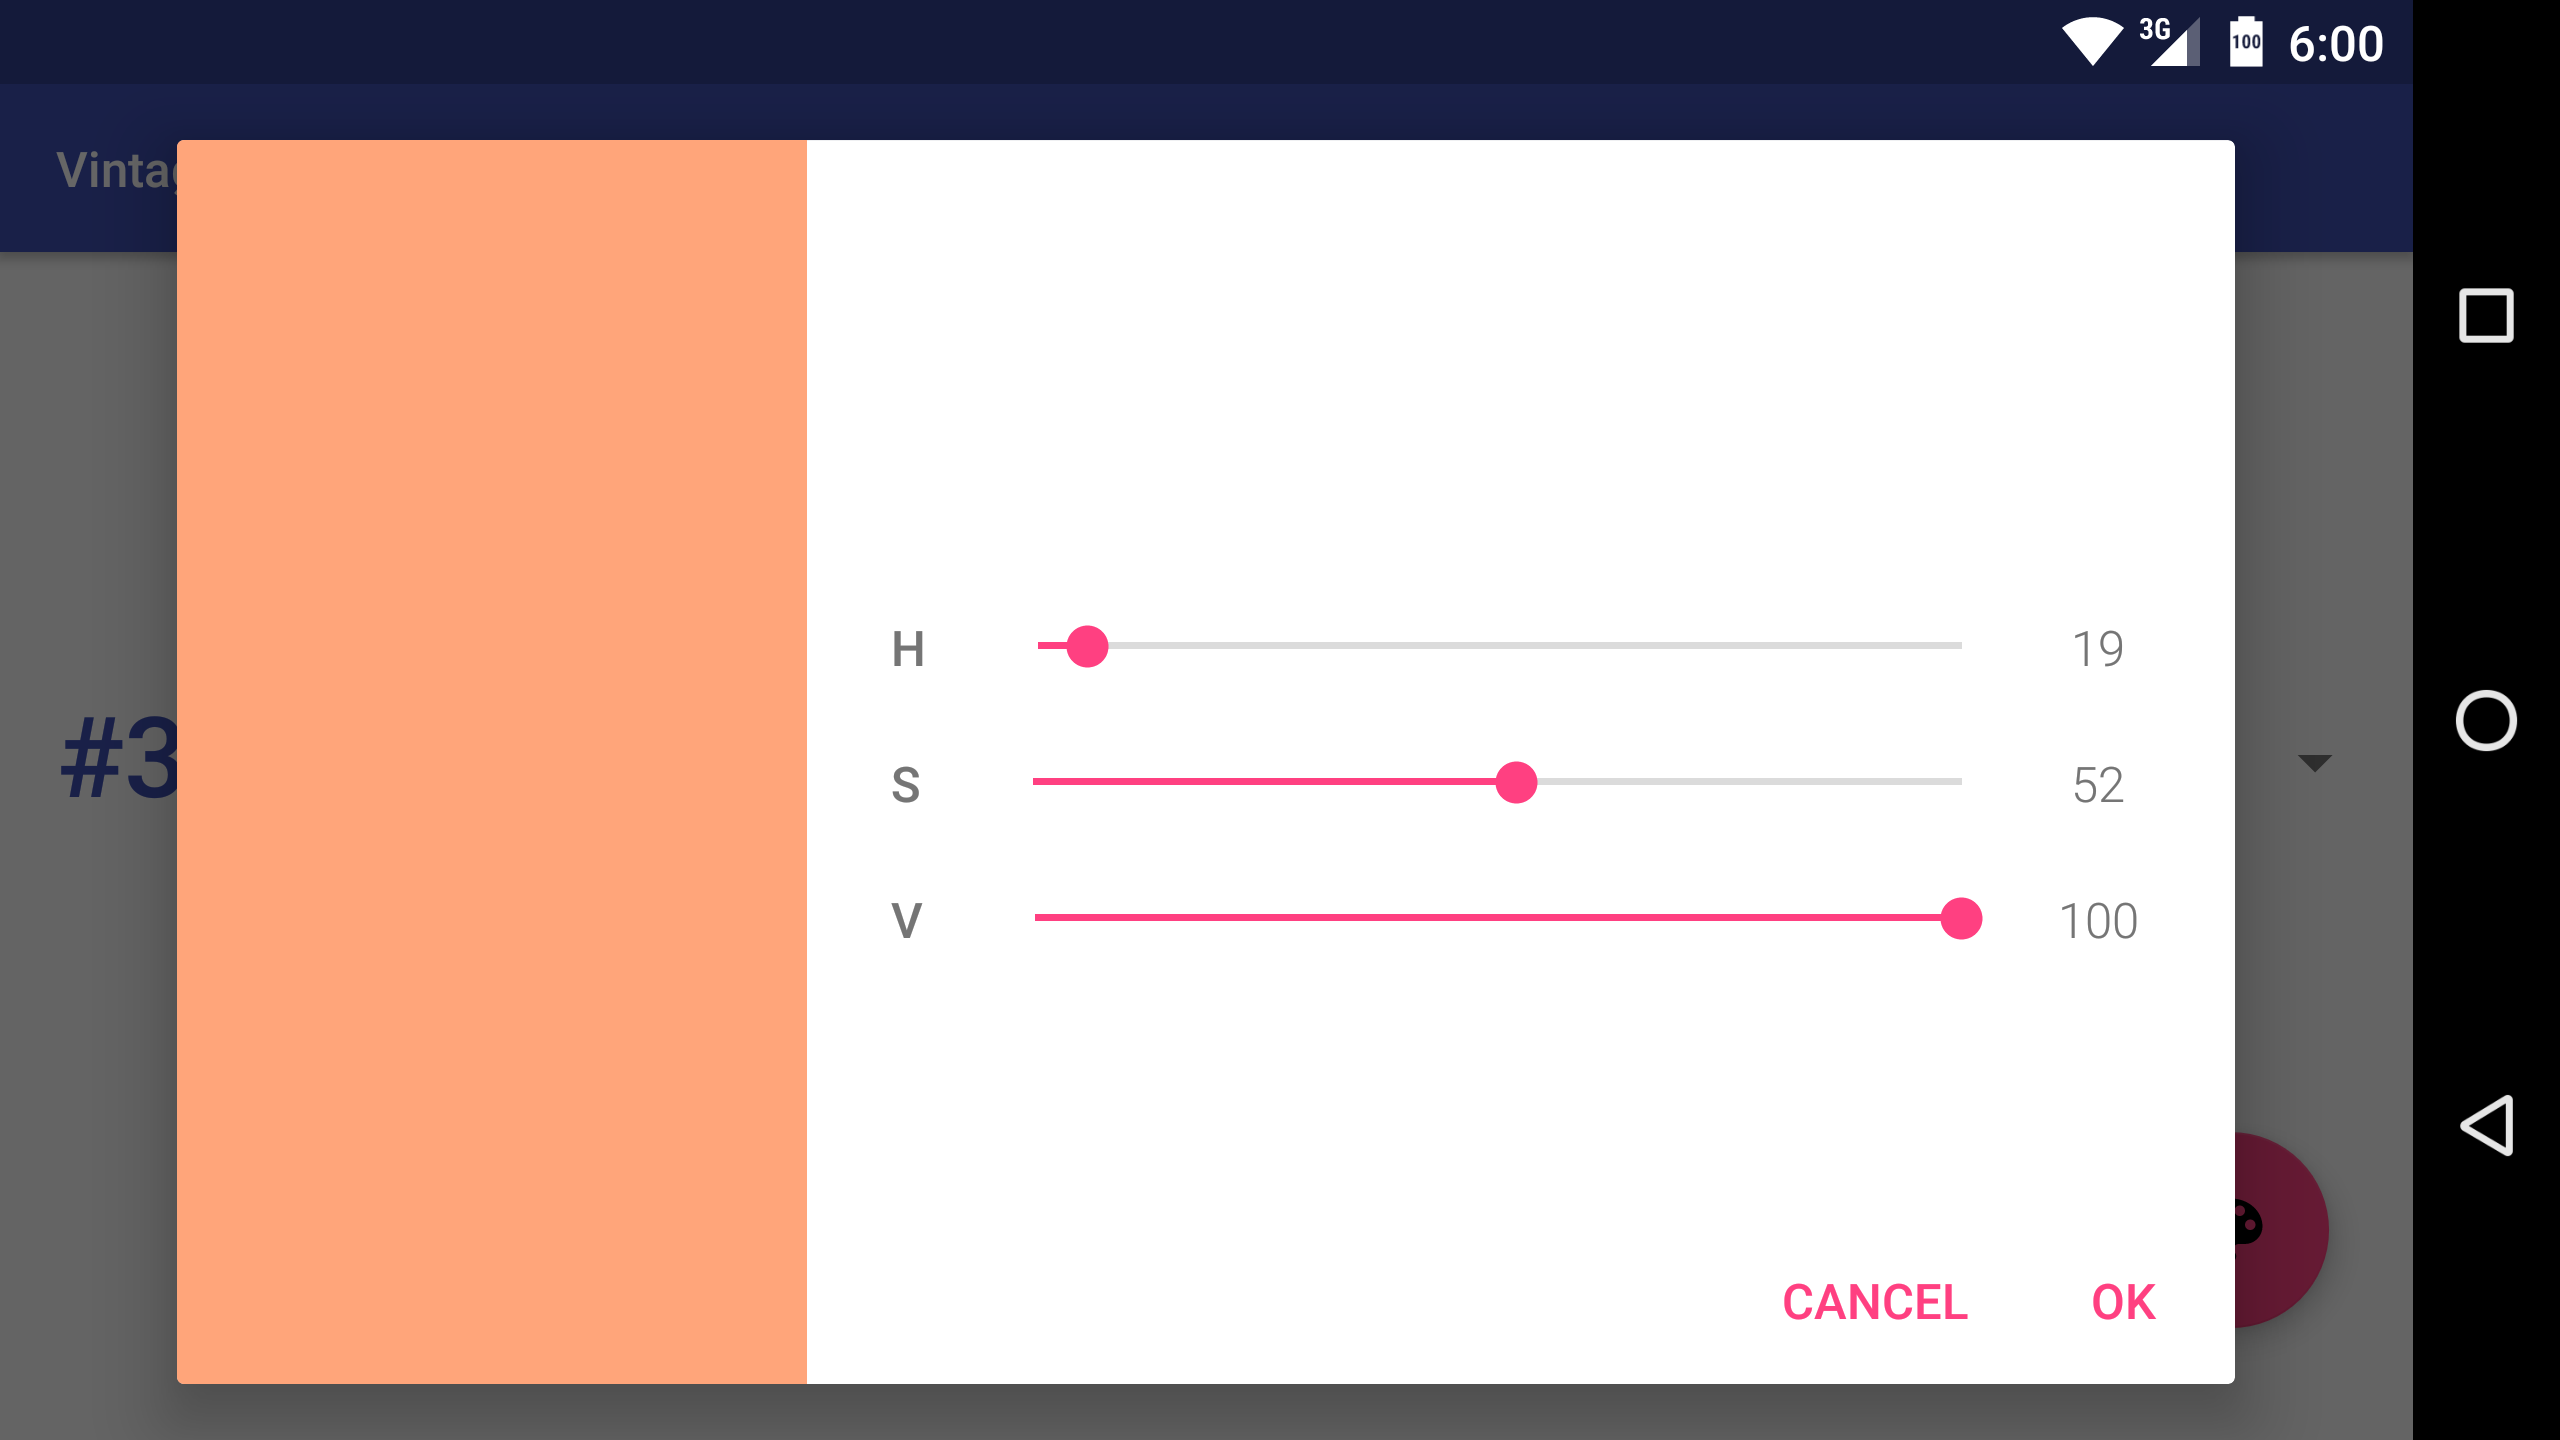
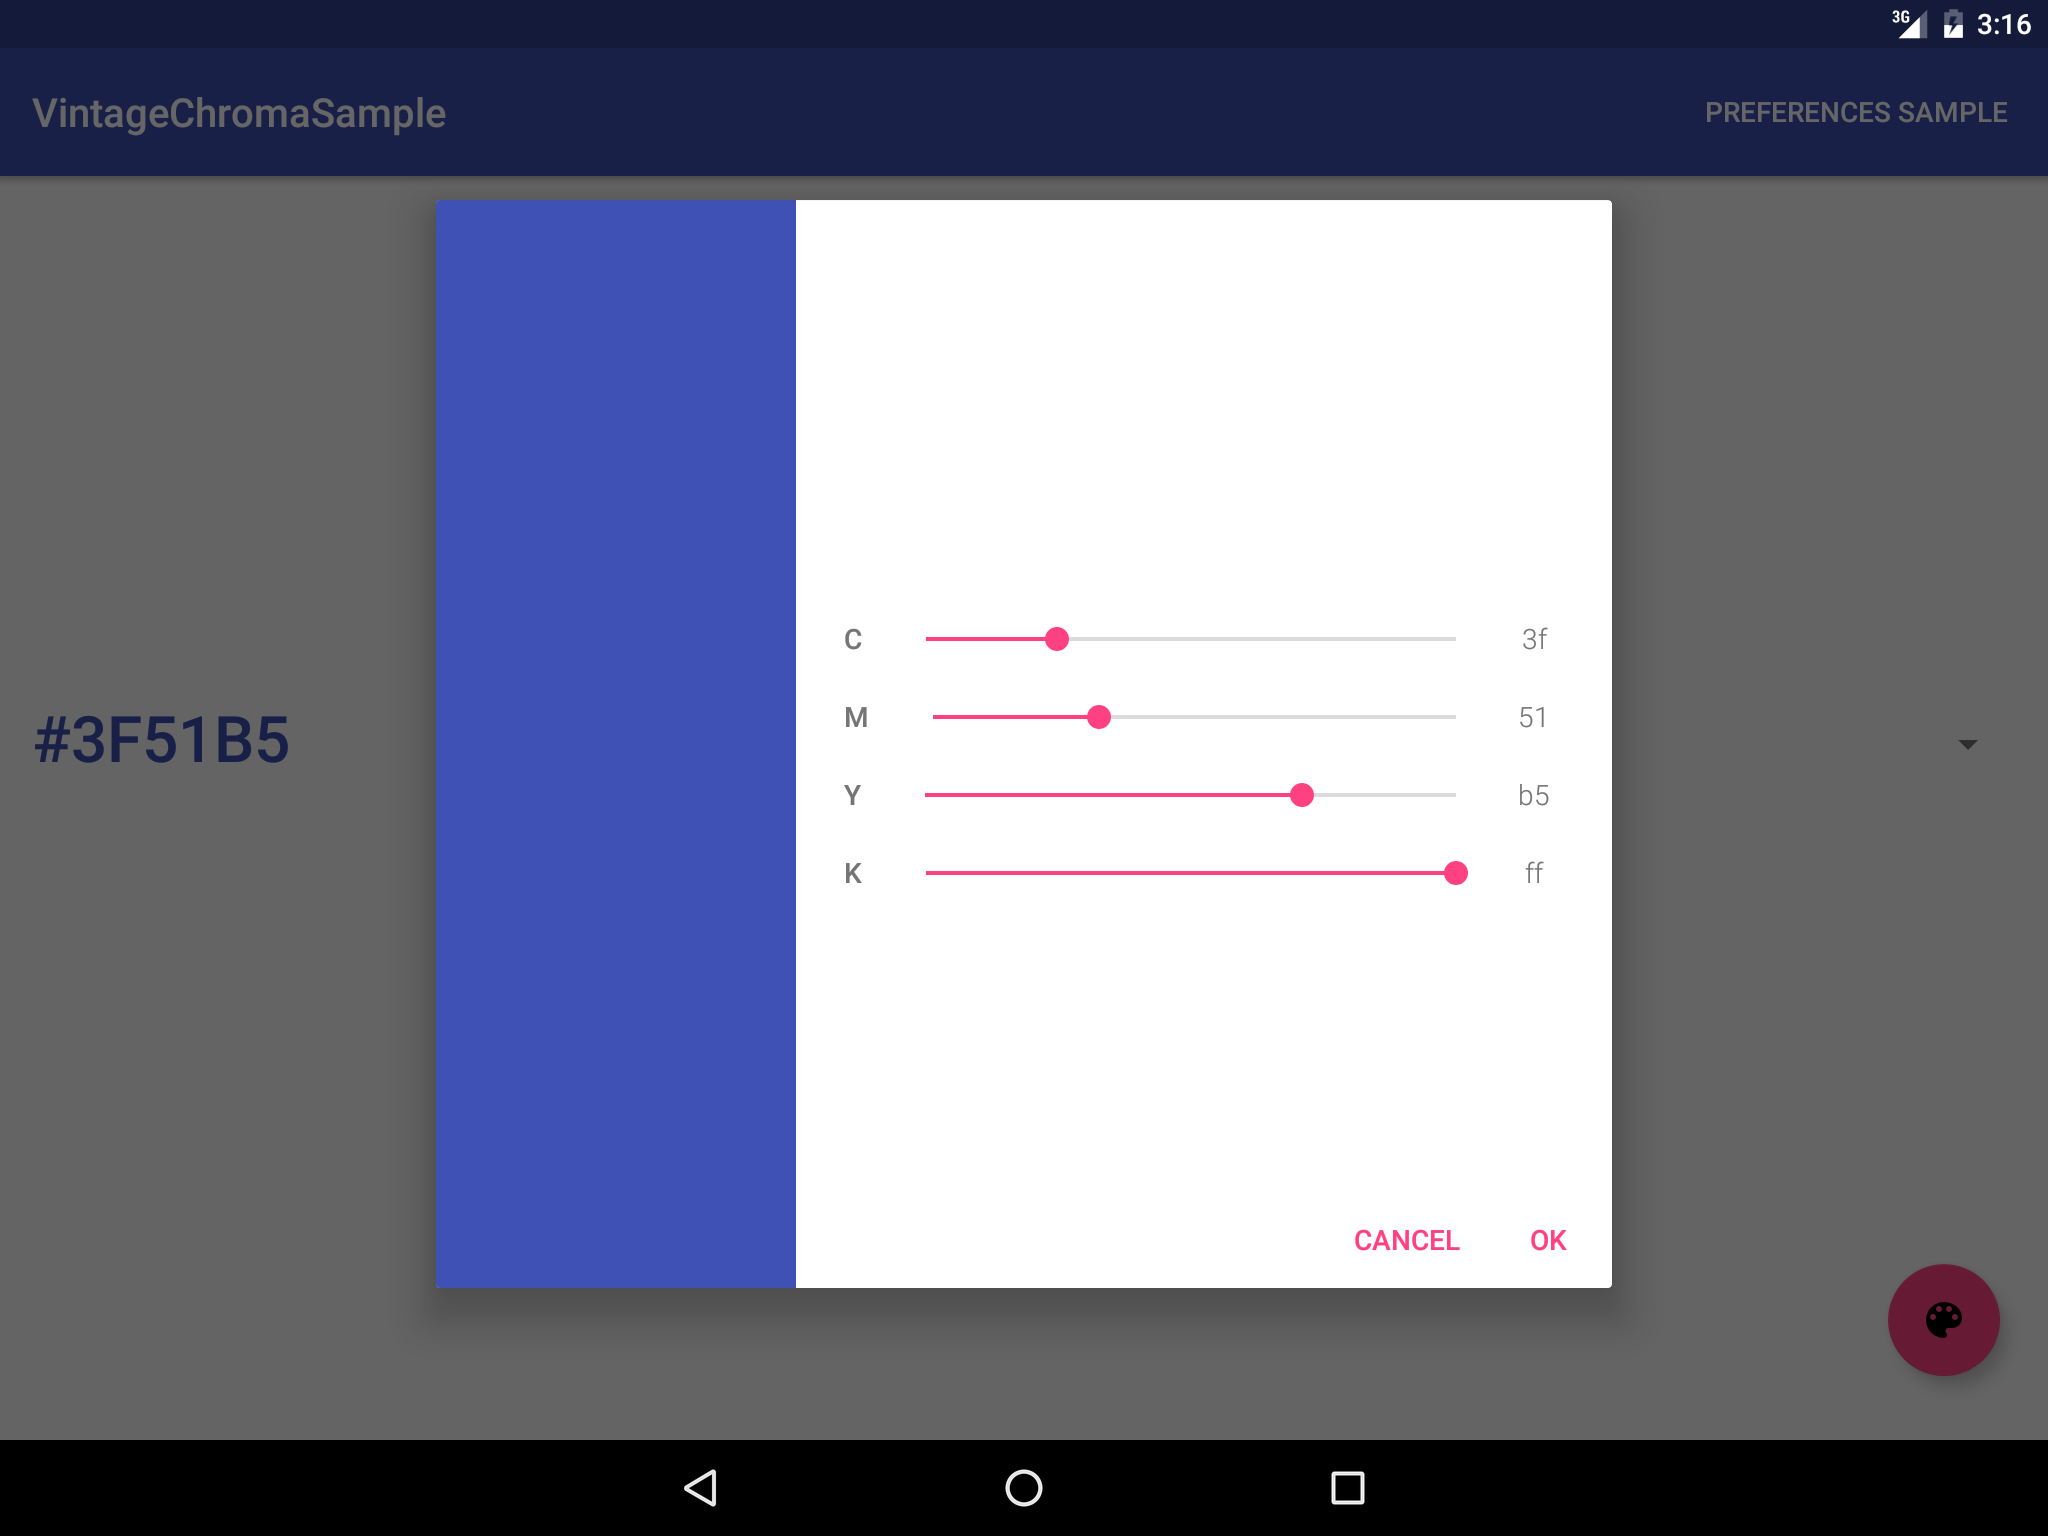
1.3.1 release: Fixed crash related to CMYK, Fixed typo in RGB/ARGB, A hacked inital color setup for HSL/CMYK/CMYK255

diff --git a/library/src/main/java/com/pavelsikun/vintagechroma/colormode/mode/CMYK.java b/library/src/main/java/com/pavelsikun/vintagechroma/colormode/mode/CMYK.java
@@ -9,7 +9,7 @@ import java.util.ArrayList;
 import java.util.List;
 
 /**
- * Created by Pavel Sikun on 01.04.16.
+ * Created by Pavel Sikun on 28.03.16.
  */
 public class CMYK implements AbstractColorMode {
 
@@ -20,28 +20,28 @@ public class CMYK implements AbstractColorMode {
         list.add(new Channel(R.string.channel_cyan, 0, 100, new Channel.ColorExtractor() {
             @Override
             public int extract(int color) {
-                return Color.red(color);
+                return 100 - (int) (Color.red((int) (color * 2.55)) / 2.55);
             }
         }));
 
         list.add(new Channel(R.string.channel_magenta, 0, 100, new Channel.ColorExtractor() {
             @Override
             public int extract(int color) {
-                return Color.green(color);
+                return 100 - (int) (Color.green((int) (color * 2.55)) / 2.55);
             }
         }));
 
         list.add(new Channel(R.string.channel_yellow, 0, 100, new Channel.ColorExtractor() {
             @Override
             public int extract(int color) {
-                return Color.blue(color);
+                return 100 - (int) (Color.blue((int) (color * 2.55)) / 2.55);
             }
         }));
 
         list.add(new Channel(R.string.channel_black, 0, 100, new Channel.ColorExtractor() {
             @Override
             public int extract(int color) {
-                return Color.alpha(color);
+                return 100 - (int) (Color.alpha((int) (color * 2.55)) / 2.55);
             }
         }));
 
@@ -57,7 +57,6 @@ public class CMYK implements AbstractColorMode {
     }
 
     private int convertToRGB(Channel colorChan, Channel blackChan) {
-        return (int) ((255 - (double) colorChan.getProgress() * 2.55) *
-                        (255 - (double) blackChan.getProgress() * 2.55)) / 255;
+        return (int)((255 - colorChan.getProgress() * 2.55) * (255 - blackChan.getProgress() * 2.55)) / 255;
     }
 }

diff --git a/library/src/main/java/com/pavelsikun/vintagechroma/colormode/mode/CMYK255.java b/library/src/main/java/com/pavelsikun/vintagechroma/colormode/mode/CMYK255.java
@@ -20,28 +20,28 @@ public class CMYK255 implements AbstractColorMode {
         list.add(new Channel(R.string.channel_cyan, 0, 255, new Channel.ColorExtractor() {
             @Override
             public int extract(int color) {
-                return Color.red(color);
+                return 255 - Color.red(color);
             }
         }));
 
         list.add(new Channel(R.string.channel_magenta, 0, 255, new Channel.ColorExtractor() {
             @Override
             public int extract(int color) {
-                return Color.green(color);
+                return 255 - Color.green(color);
             }
         }));
 
         list.add(new Channel(R.string.channel_yellow, 0, 255, new Channel.ColorExtractor() {
             @Override
             public int extract(int color) {
-                return Color.blue(color);
+                return 255 -  Color.blue(color);
             }
         }));
 
         list.add(new Channel(R.string.channel_black, 0, 255, new Channel.ColorExtractor() {
             @Override
             public int extract(int color) {
-                return Color.alpha(color);
+                return 255 - Color.alpha(color);
             }
         }));
 

diff --git a/library/src/main/java/com/pavelsikun/vintagechroma/colormode/mode/HSL.java b/library/src/main/java/com/pavelsikun/vintagechroma/colormode/mode/HSL.java
@@ -1,7 +1,6 @@
 package com.pavelsikun.vintagechroma.colormode.mode;
 
 import android.graphics.Color;
-
 import com.pavelsikun.vintagechroma.R;
 import com.pavelsikun.vintagechroma.colormode.Channel;
 
@@ -54,14 +53,14 @@ public class HSL implements AbstractColorMode {
         list.add(new Channel(R.string.channel_saturation, 0, 100, new Channel.ColorExtractor() {
             @Override
             public int extract(int color) {
-                return (int) color2hsl(color)[1] * 100;
+                return 100 - (int) color2hsl(color)[1] * 100;
             }
         }));
 
         list.add(new Channel(R.string.channel_lightness, 0, 100, new Channel.ColorExtractor() {
             @Override
             public int extract(int color) {
-                return (int) color2hsl(color)[2] * 100;
+                return Math.abs(50 - (int) color2hsl(color)[2] * 100);
             }
         }));
 

diff --git a/library/src/main/java/com/pavelsikun/vintagechroma/colormode/mode/ARGB.java b/library/src/main/java/com/pavelsikun/vintagechroma/colormode/mode/ARGB.java
@@ -38,7 +38,7 @@ public class ARGB implements AbstractColorMode {
             }
         }));
 
-        list.add(new Channel(R.string.channel_red, 0, 255, new Channel.ColorExtractor() {
+        list.add(new Channel(R.string.channel_blue, 0, 255, new Channel.ColorExtractor() {
             @Override
             public int extract(int color) {
                 return Color.blue(color);

diff --git a/library/src/main/java/com/pavelsikun/vintagechroma/colormode/mode/RGB.java b/library/src/main/java/com/pavelsikun/vintagechroma/colormode/mode/RGB.java
@@ -32,7 +32,7 @@ public class RGB implements AbstractColorMode {
             }
         }));
 
-        list.add(new Channel(R.string.channel_red, 0, 255, new Channel.ColorExtractor() {
+        list.add(new Channel(R.string.channel_blue, 0, 255, new Channel.ColorExtractor() {
             @Override
             public int extract(int color) {
                 return Color.blue(color);

diff --git a/README.md b/README.md
@@ -7,7 +7,7 @@ A Beautiful Material color picker view for Android.
 
 This project started off as an identical remake of [Chroma by Priyesh Patel](https://github.com/ItsPriyesh/chroma)
 but written in Java instead of Kotlin, so it is much more lightweight for using in kotlin-less apps.
-Right now it's a bit more advanced than original as it is a bit more optimised and also supports few additional options(such as custom preference, ARGB, and HEX-indicator)
+Right now it's a bit more advanced than original as it is a bit more optimised and also supports few additional options(such as custom preference, ARGB, CMYK, HMS, HEX-indicator and more)
 
 
 Let's hope that both of these two libs will be cross-updated with features ported from one to another!
@@ -22,7 +22,7 @@ Screenshots
 Download
 --------
 ```
-compile 'com.pavelsikun:vintage-chroma:1.3'
+compile 'com.pavelsikun:vintage-chroma:1.3.1'
 ```
 
 Usage as stand-alone dialog && listener:
